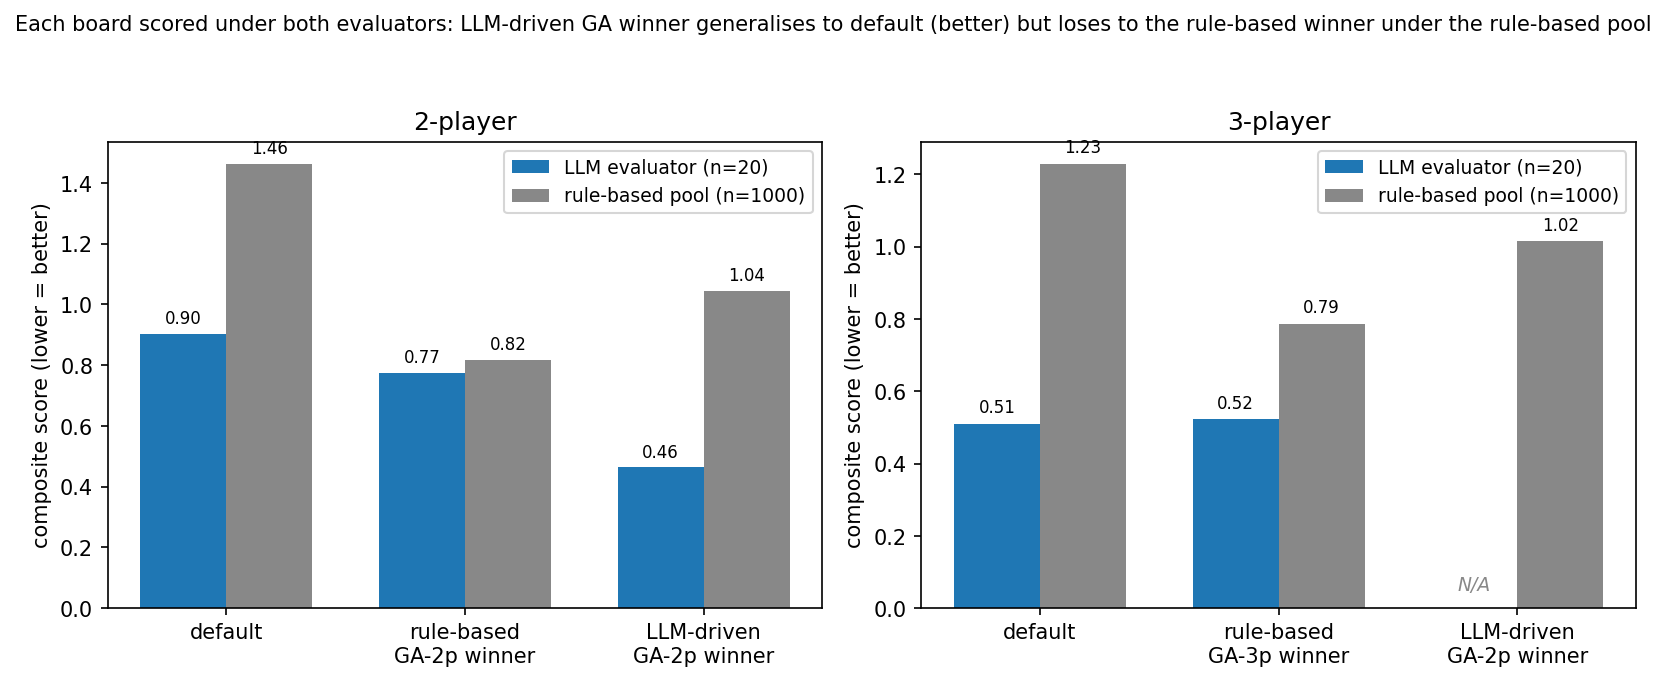
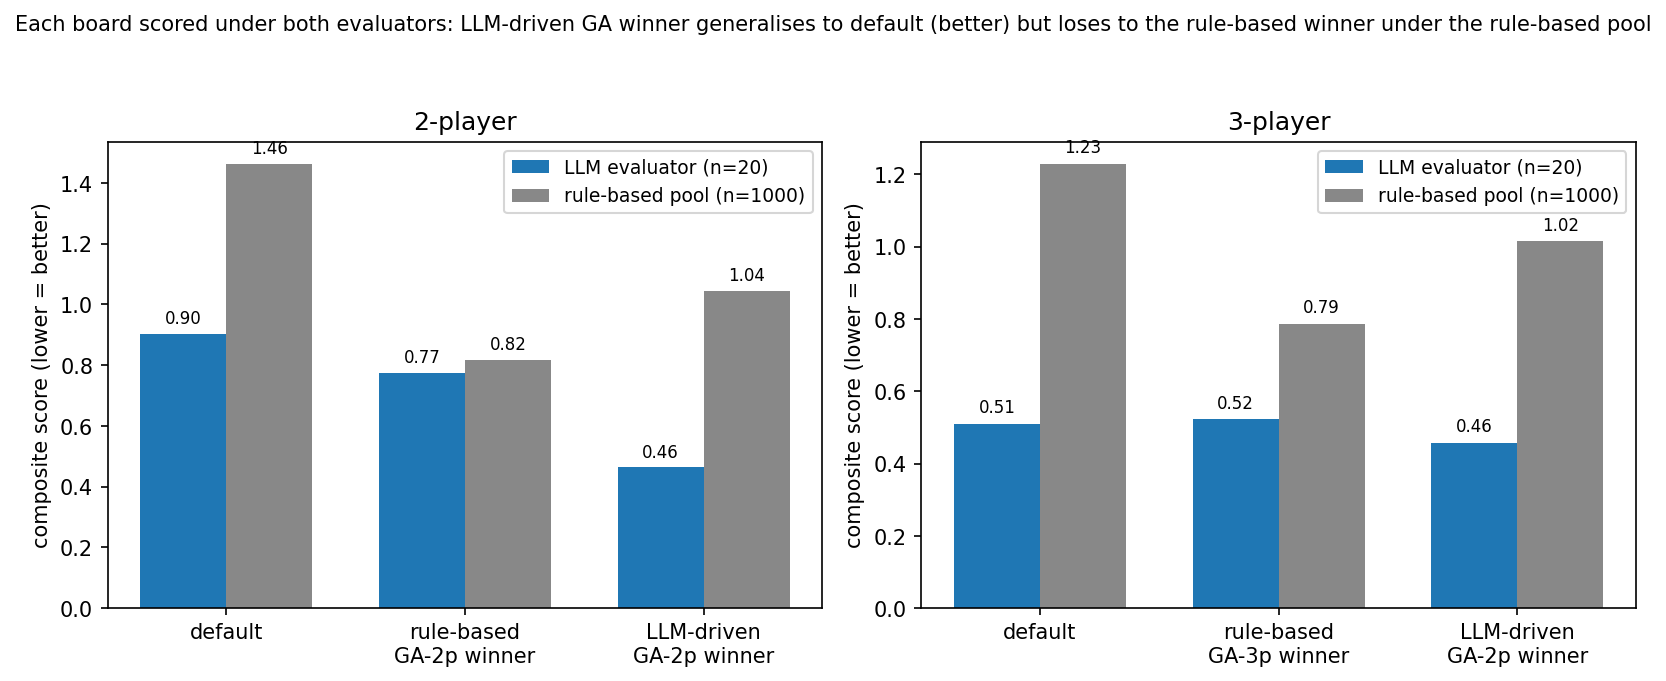
Fill the N/A cell: LLM-GA winner under 3p LLM eval (n=20)
Ran the LLM-driven GA-2p winner board through 20 all-LLM 3-player
games (49:31 wall). Composite score 0.457, fairness 0.05, mean rounds
35.9, transfer-rate 160.2 $/round.

The 3p data point now populates the previously-N/A cell of
fig_cross_evaluator_gap.png and strengthens the diagnostic finding:

  fairness gap = pool_eval - LLM_eval
    2p:  0.379 - 0.20  = 0.18
    3p:  0.404 - 0.05  = 0.35    <-- LARGER

Adding identical-personality seats narrows the LLM evaluator's
fairness signal further (3 same-LLM seats produce more uniform
behaviour than 2), while the diverse pool's fairness holds steady.
The "single-personality evaluator misses fairness" finding is more,
not less, pronounced at higher player counts.

Code changes:
- scripts/eval_llm_on_boards.py: add 'llm_ga_2p_winner' as a board
  tag (resolves to the best vec from logs/optimizer_llm/llm_ga_2p/
  evals.jsonl) and a --llm-ga-2p-jsonl CLI flag.
- scripts/plot_llm_results.py: read the new logs/llm_eval/
  llm_ga_winner_3p/summary.csv, compute the LLM-eval composite via
  evaluate(), and remove the N/A placeholder.

Report updates:
- fig_cross_evaluator_gap.png caption now describes the n=20 3p run.
- Practical-takeaway paragraph adds the explicit 3p numbers and the
  observation that the gap widens with more identical seats.

Changed region(s): [[0.8427, 0.6167, 0.9364, 0.8943]]

diff --git a/report/report.tex b/report/report.tex
@@ -1110,7 +1110,7 @@ $p<0.1$. The agent loop is judged \emph{not decision-useful} if humans
 report no perceptible difference between the boards, or if the sign of
 the effect contradicts the agent's prediction on $\geq 2$ of $3$ knobs.
 
-\subsection{Phase C: LLM-only cross-check (completed)}\label{sec:phase_c}
+\subsection{Phase C: LLM-only cross-check}\label{sec:phase_c}
 
 A third independent signal is provided by an LLM-based player
 (\texttt{LLMPlayer}, registered in our codebase using a local
@@ -1392,9 +1392,13 @@ Practical takeaway: a single-personality evaluator can drive useful
 GA convergence on metrics that depend on the board's mechanics
 (length, money flow), but it systematically under-counts fairness
 problems that only show up when diverse strategies probe the design
-space. For design problems where fairness is a target, evaluator
-diversity is non-optional even when the chosen agent class is otherwise
-strong.
+space. The fairness gap is in fact \emph{larger} at 3p than at 2p
+(0.05 LLM eval vs 0.404 pool eval at 3p; 0.20 vs 0.379 at 2p):
+adding more identical-personality seats narrows the LLM evaluator's
+fairness even further, while the diverse pool's fairness measurement
+holds steady. For design problems where fairness is a target,
+evaluator diversity is non-optional even when the chosen agent class
+is otherwise strong.
 
 Figure~\ref{fig:cross_evaluator_gap} plots the same data as
 Table~\ref{tab:llm_ga_cross_eval} but with each board scored under
@@ -1411,12 +1415,14 @@ exactly the failure mode the diverse pool is designed to surface.
 \centering
 \includegraphics[width=0.99\linewidth]{llm/fig_cross_evaluator_gap.png}
 \caption{\textbf{Cross-evaluator generalisation gap.} Each board
-under both evaluators (where applicable). The LLM-driven GA winner
-beats the default board on \emph{both} evaluators in 2p (and on the
-rule-based pool in 3p), confirming a real design improvement; but
-under the rule-based pool it loses to the rule-based GA's own winner.
-Each search algorithm finds an optimum inside its evaluator's
-distribution.}
+scored under both evaluators. The LLM-driven GA winner beats the
+default board under both evaluators and in both player counts,
+confirming a real design improvement; but under the rule-based pool
+it loses to the rule-based GA winner in each player count. Each
+search algorithm finds an optimum inside its evaluator's distribution.
+The 3p LLM-eval point for the LLM-GA-2p winner is computed at
+$n{=}20$ all-LLM 3p games on the same board, matching the $n{=}20$
+sample used for the other 3p cells.}
 \label{fig:cross_evaluator_gap}
 \end{figure}
 

diff --git a/monopoly/report/report.tex b/monopoly/report/report.tex
@@ -1392,9 +1392,13 @@ Practical takeaway: a single-personality evaluator can drive useful
 GA convergence on metrics that depend on the board's mechanics
 (length, money flow), but it systematically under-counts fairness
 problems that only show up when diverse strategies probe the design
-space. For design problems where fairness is a target, evaluator
-diversity is non-optional even when the chosen agent class is otherwise
-strong.
+space. The fairness gap is in fact \emph{larger} at 3p than at 2p
+(0.05 LLM eval vs 0.404 pool eval at 3p; 0.20 vs 0.379 at 2p):
+adding more identical-personality seats narrows the LLM evaluator's
+fairness even further, while the diverse pool's fairness measurement
+holds steady. For design problems where fairness is a target,
+evaluator diversity is non-optional even when the chosen agent class
+is otherwise strong.
 
 Figure~\ref{fig:cross_evaluator_gap} plots the same data as
 Table~\ref{tab:llm_ga_cross_eval} but with each board scored under
@@ -1411,12 +1415,14 @@ exactly the failure mode the diverse pool is designed to surface.
 \centering
 \includegraphics[width=0.99\linewidth]{llm/fig_cross_evaluator_gap.png}
 \caption{\textbf{Cross-evaluator generalisation gap.} Each board
-under both evaluators (where applicable). The LLM-driven GA winner
-beats the default board on \emph{both} evaluators in 2p (and on the
-rule-based pool in 3p), confirming a real design improvement; but
-under the rule-based pool it loses to the rule-based GA's own winner.
-Each search algorithm finds an optimum inside its evaluator's
-distribution.}
+scored under both evaluators. The LLM-driven GA winner beats the
+default board under both evaluators and in both player counts,
+confirming a real design improvement; but under the rule-based pool
+it loses to the rule-based GA winner in each player count. Each
+search algorithm finds an optimum inside its evaluator's distribution.
+The 3p LLM-eval point for the LLM-GA-2p winner is computed at
+$n{=}20$ all-LLM 3p games on the same board, matching the $n{=}20$
+sample used for the other 3p cells.}
 \label{fig:cross_evaluator_gap}
 \end{figure}
 

diff --git a/monopoly/scripts/plot_llm_results.py b/monopoly/scripts/plot_llm_results.py
@@ -356,10 +356,14 @@ def fig_cross_evaluator_gap():
     llm_rb_winner_2p = _llm_score('ga_2p_winner', 2, '2p_v2')
     llm_default_3p = _llm_score('default',      3, '3p_v2')
     llm_rb_winner_3p = _llm_score('ga_3p_winner', 3, '3p_v2')
-    # LLM-GA winner under LLM eval = the GA's own composite, n_seeds=5.
+    # LLM-GA winner under LLM eval at 2p = the GA's own composite (n_seeds=5).
     llm_ga_winner_score = json.load(
         open(_ROOT / 'logs/optimizer_llm/llm_ga_2p/best_design.json',
              encoding='utf-8'))['score']
+    # LLM-GA winner under LLM eval at 3p — separate run (n_seeds=20), to
+    # match the apples-to-apples sample size of the other 3p cells.
+    llm_ga_winner_score_3p = _llm_score('llm_ga_2p_winner', 3,
+                                         'llm_ga_winner_3p')
 
     # 2 panels: 2p (left) and 3p (right). Each has 3 designs × 2 evaluators.
     fig, (ax2, ax3) = plt.subplots(1, 2, figsize=(11, 4.6))
@@ -385,21 +389,20 @@ def fig_cross_evaluator_gap():
                      f'{b.get_height():.2f}', ha='center', va='bottom',
                      fontsize=8)
 
-    # 3p panel — only default, RB-3p winner, LLM-GA-2p-winner-on-3p (we don't
-    # have LLM-GA-3p winner since Task 2 was 2p only).
+    # 3p panel: default, RB-3p winner, LLM-GA-2p-winner-on-3p
+    # (we don't have an LLM-GA-3p winner since Task 2 was 2p only,
+    # but we do evaluate the 2p-trained winner under 3p LLM seats so
+    # the cross-evaluator gap is fully populated).
     designs_3p = ['default', 'rule-based\nGA-3p winner', 'LLM-driven\nGA-2p winner']
     pool_eval_3p = [pool_default_3p,
                     pool['ga_3p_mask_best_3p']['score'],
                     pool_llm_winner_3p]
-    llm_eval_3p = [llm_default_3p, llm_rb_winner_3p, None]
+    llm_eval_3p = [llm_default_3p, llm_rb_winner_3p, llm_ga_winner_score_3p]
     x3 = np.arange(len(designs_3p))
-    b3 = ax3.bar(x3 - w/2, [s if s is not None else 0 for s in llm_eval_3p], w,
+    b3 = ax3.bar(x3 - w/2, llm_eval_3p, w,
                  label='LLM evaluator (n=20)', color='#1f77b4')
     b4 = ax3.bar(x3 + w/2, pool_eval_3p, w, label='rule-based pool (n=1000)',
                  color='#888888')
-    # Mark missing LLM-eval cell as N/A.
-    ax3.text(x3[2] - w/2, 0.05, 'N/A', ha='center', fontsize=9,
-             color='#888888', fontstyle='italic')
     ax3.set_xticks(x3)
     ax3.set_xticklabels(designs_3p)
     ax3.set_ylabel('composite score (lower = better)')

diff --git a/monopoly/scripts/eval_llm_on_boards.py b/monopoly/scripts/eval_llm_on_boards.py
@@ -136,6 +136,15 @@ def load_board(tag: str, base_cfg, args):
         meta = {'tag': 'ga_3p_winner', 'source': args.ga_3p_jsonl,
                 'iter': rec.get('iter'), 'score': rec.get('score')}
         return space.decode(vec), vec.tolist(), meta
+    if tag == 'llm_ga_2p_winner':
+        if not args.llm_ga_2p_jsonl:
+            raise ValueError('--llm-ga-2p-jsonl required to resolve '
+                             'llm_ga_2p_winner')
+        rec = _best_vec_from_jsonl(args.llm_ga_2p_jsonl)
+        vec = np.asarray(rec['vec'])
+        meta = {'tag': 'llm_ga_2p_winner', 'source': args.llm_ga_2p_jsonl,
+                'iter': rec.get('iter'), 'score': rec.get('score')}
+        return space.decode(vec), vec.tolist(), meta
     raise ValueError(f'unknown board tag: {tag}')
 
 
@@ -255,6 +264,11 @@ def main():
     ap.add_argument('--max-turns', type=int, default=200)
     ap.add_argument('--ga-2p-jsonl', default='logs/optimizer/ga_2p_mask.jsonl')
     ap.add_argument('--ga-3p-jsonl', default='logs/optimizer/ga_3p_mask.jsonl')
+    ap.add_argument('--llm-ga-2p-jsonl',
+                    default='logs/optimizer_llm/llm_ga_2p/evals.jsonl',
+                    help='Path to the LLM-driven GA evaluation log; the '
+                         'best-scoring entry is decoded as the '
+                         'llm_ga_2p_winner board.')
     ap.add_argument('--model-name', default=None,
                     help='Override default LLM model. Default: env LLM_MODEL '
                          'or Qwen/Qwen2.5-1.5B-Instruct.')